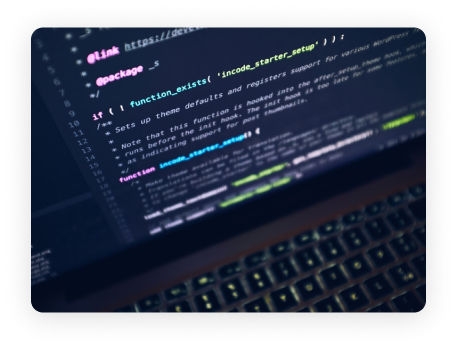
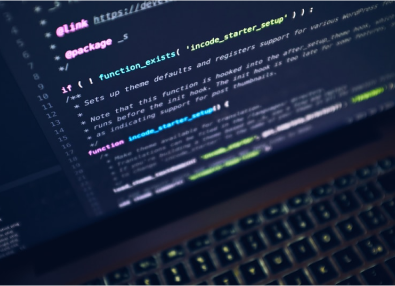
optimization gallery section

diff --git a/index.html b/index.html
@@ -146,18 +146,41 @@
             <h3 class="gallery-title title">Gallery</h3>
             <p class="gallery-subtitle subtitle">
                 We focus on ergonomics and meeting you where you work. It's only a keystroke away.
-            </p>
+            </p>           
             <div class="gallery-images">
-                <div class="gallery-item-1 small"></div>
-                <div class="gallery-item-2 small"></div>
-                <div class="gallery-item-3 small"></div>
-                <div class="gallery-item-4 small"></div>
-                <div class="gallery-item-5 big"></div>
-                <div class="gallery-item-6 small"></div>
-                <div class="gallery-item-7 big"></div> 
-                <div class="gallery-item-8 small"></div>
-                <div class="gallery-item-9 small"></div>
-                <div class="gallery-item-10 small"></div>
+                <div class="gallery-item item-1">
+                    <img class="gallery-item-img" src="./img/gallery-item-img-1.png" alt="">
+                </div>                
+                <div class="gallery-item item-2">
+                    <img class="gallery-item-img" src="./img/gallery-item-img-2.png" alt="">
+                </div>
+                <div class="gallery-item item-3">
+                    <img class="gallery-item-img" src="./img/gallery-item-img-3.png" alt="">
+                </div>
+                <div class="gallery-item item-4">
+                    <img class="gallery-item-img" src="./img/gallery-item-img-4.png" alt="">
+                </div>
+                <div class="gallery-item item-5">
+                    <img class="gallery-item-img" src="./img/gallery-item-img-5.png" alt="">
+                </div>
+                <div class="gallery-item item-6">
+                    <img class="gallery-item-img" src="./img/gallery-item-img-6.png" alt="">
+                </div>
+                <div class="gallery-item item-7">
+                    <img class="gallery-item-img" src="./img/gallery-item-img-7.png" alt="">
+                </div>
+                <div class="gallery-item item-8">
+                    <img class="gallery-item-img" src="./img/gallery-item-img-8.png" alt="">
+                </div>
+                <div class="gallery-item item-9">
+                    <img class="gallery-item-img" src="./img/gallery-item-img-9.png" alt="">
+                </div>
+                <div class="gallery-item item-10">
+                    <img class="gallery-item-img" src="./img/gallery-item-img-10.png" alt="">
+                </div>
+                <div class="gallery-item item-11">
+                    <img class="gallery-item-img" src="./img/gallery-item-img-11.png" alt="">
+                </div>
             </div>
             <button class="gallery-btn">See more</button>
         </div>

diff --git a/css/style.css b/css/style.css
@@ -422,69 +422,31 @@ body {
     margin-bottom: 100px;
 }
 
-.gallery-images {
+.gallery-images {    
     padding: 44px 0;
     display: flex;
     flex-wrap: wrap;
     justify-content: center;
-    align-items: center;   
+    align-items: center; 
+    column-gap: 33px;
+    row-gap: 44px;   
 }
 
-.small {
-    width: 225px;
-    height: 285px;
+.gallery-item {
+    max-width: 225px;
+    height: 285px;    
 }
 
-.big {
-    width: 395px;
-    height: 285px;
+.gallery-item-img {
+    width: 100%;
+    border-radius: 12px;
 }
 
-.gallery-item-1 {
-    background-image: url(../img/gallery-item-img-1.png);
-    background-size: contain;
+.item-5, .item-7 {
+    max-width: 395px;
 }
 
-.gallery-item-2 {
-    background-image: url(../img/gallery-item-img-2.png);
-    background-size: contain;
-}
-.gallery-item-3 {
-    background-image: url(../img/gallery-item-img-3.png);
-    background-size: contain;
-}
-.gallery-item-4 {
-    background-image: url(../img/gallery-item-img-4.png);
-    background-size: contain;
-}
-.gallery-item-5 {
-    background-image: url(../img/gallery-item-img-5.png);
-    background-size: contain;
-}
-.gallery-item-6 {
-    background-image: url(../img/gallery-item-img-6.png);
-    background-size: contain;
-}
-.gallery-item-7 {
-    background-image: url(../img/gallery-item-img-7.png);
-    background-size: contain;
-}
-
-.gallery-item-8 {
-    background-image: url(../img/gallery-item-img-8.png);
-    background-size: contain;
-    display: none;
-}
-
-.gallery-item-9 {
-    background-image: url(../img/gallery-item-img-9.png);
-    background-size: contain;
-    display: none;
-}
-
-.gallery-item-10 {
-    background-image: url(../img/gallery-item-img-10.png);
-    background-size: contain;
+.item-8, .item-9, .item-10, .item-11 {
     display: none;
 }
 
@@ -505,33 +467,26 @@ body {
     background-color: #4452FE;
 }
 
-
-
-
 @media (max-width: 576px) {
     .gallery {
-        padding: 20px 0; 
-        margin-bottom: 0;       
+        padding: 20px 0;                
     }
 
     .gallery-images {
         padding: 20px 0;
+        row-gap: 10px;        
     }
 
-    .small {
-        width: 305px;
-    }
+    .gallery-item {
+        max-width: 305px;
+    }    
 
-    .gallery-item-1 {
-        background-image: url(../img/gallery-item-img-11.png);        
-    }
-
-    .gallery-item-8, .gallery-item-9, .gallery-item-10 {
+    .item-8, .item-9, .item-10, .item-11 {
         display: block;
     }
 
-    .gallery-item-2, .gallery-item-3, .gallery-item-4,
-    .gallery-item-5, .gallery-item-6, .gallery-item-7 {
+    .item-1, .item-2, .item-3, .item-4,
+    .item-5, .item-6, .item-7 {
         display: none;
     }
-}
+} 
